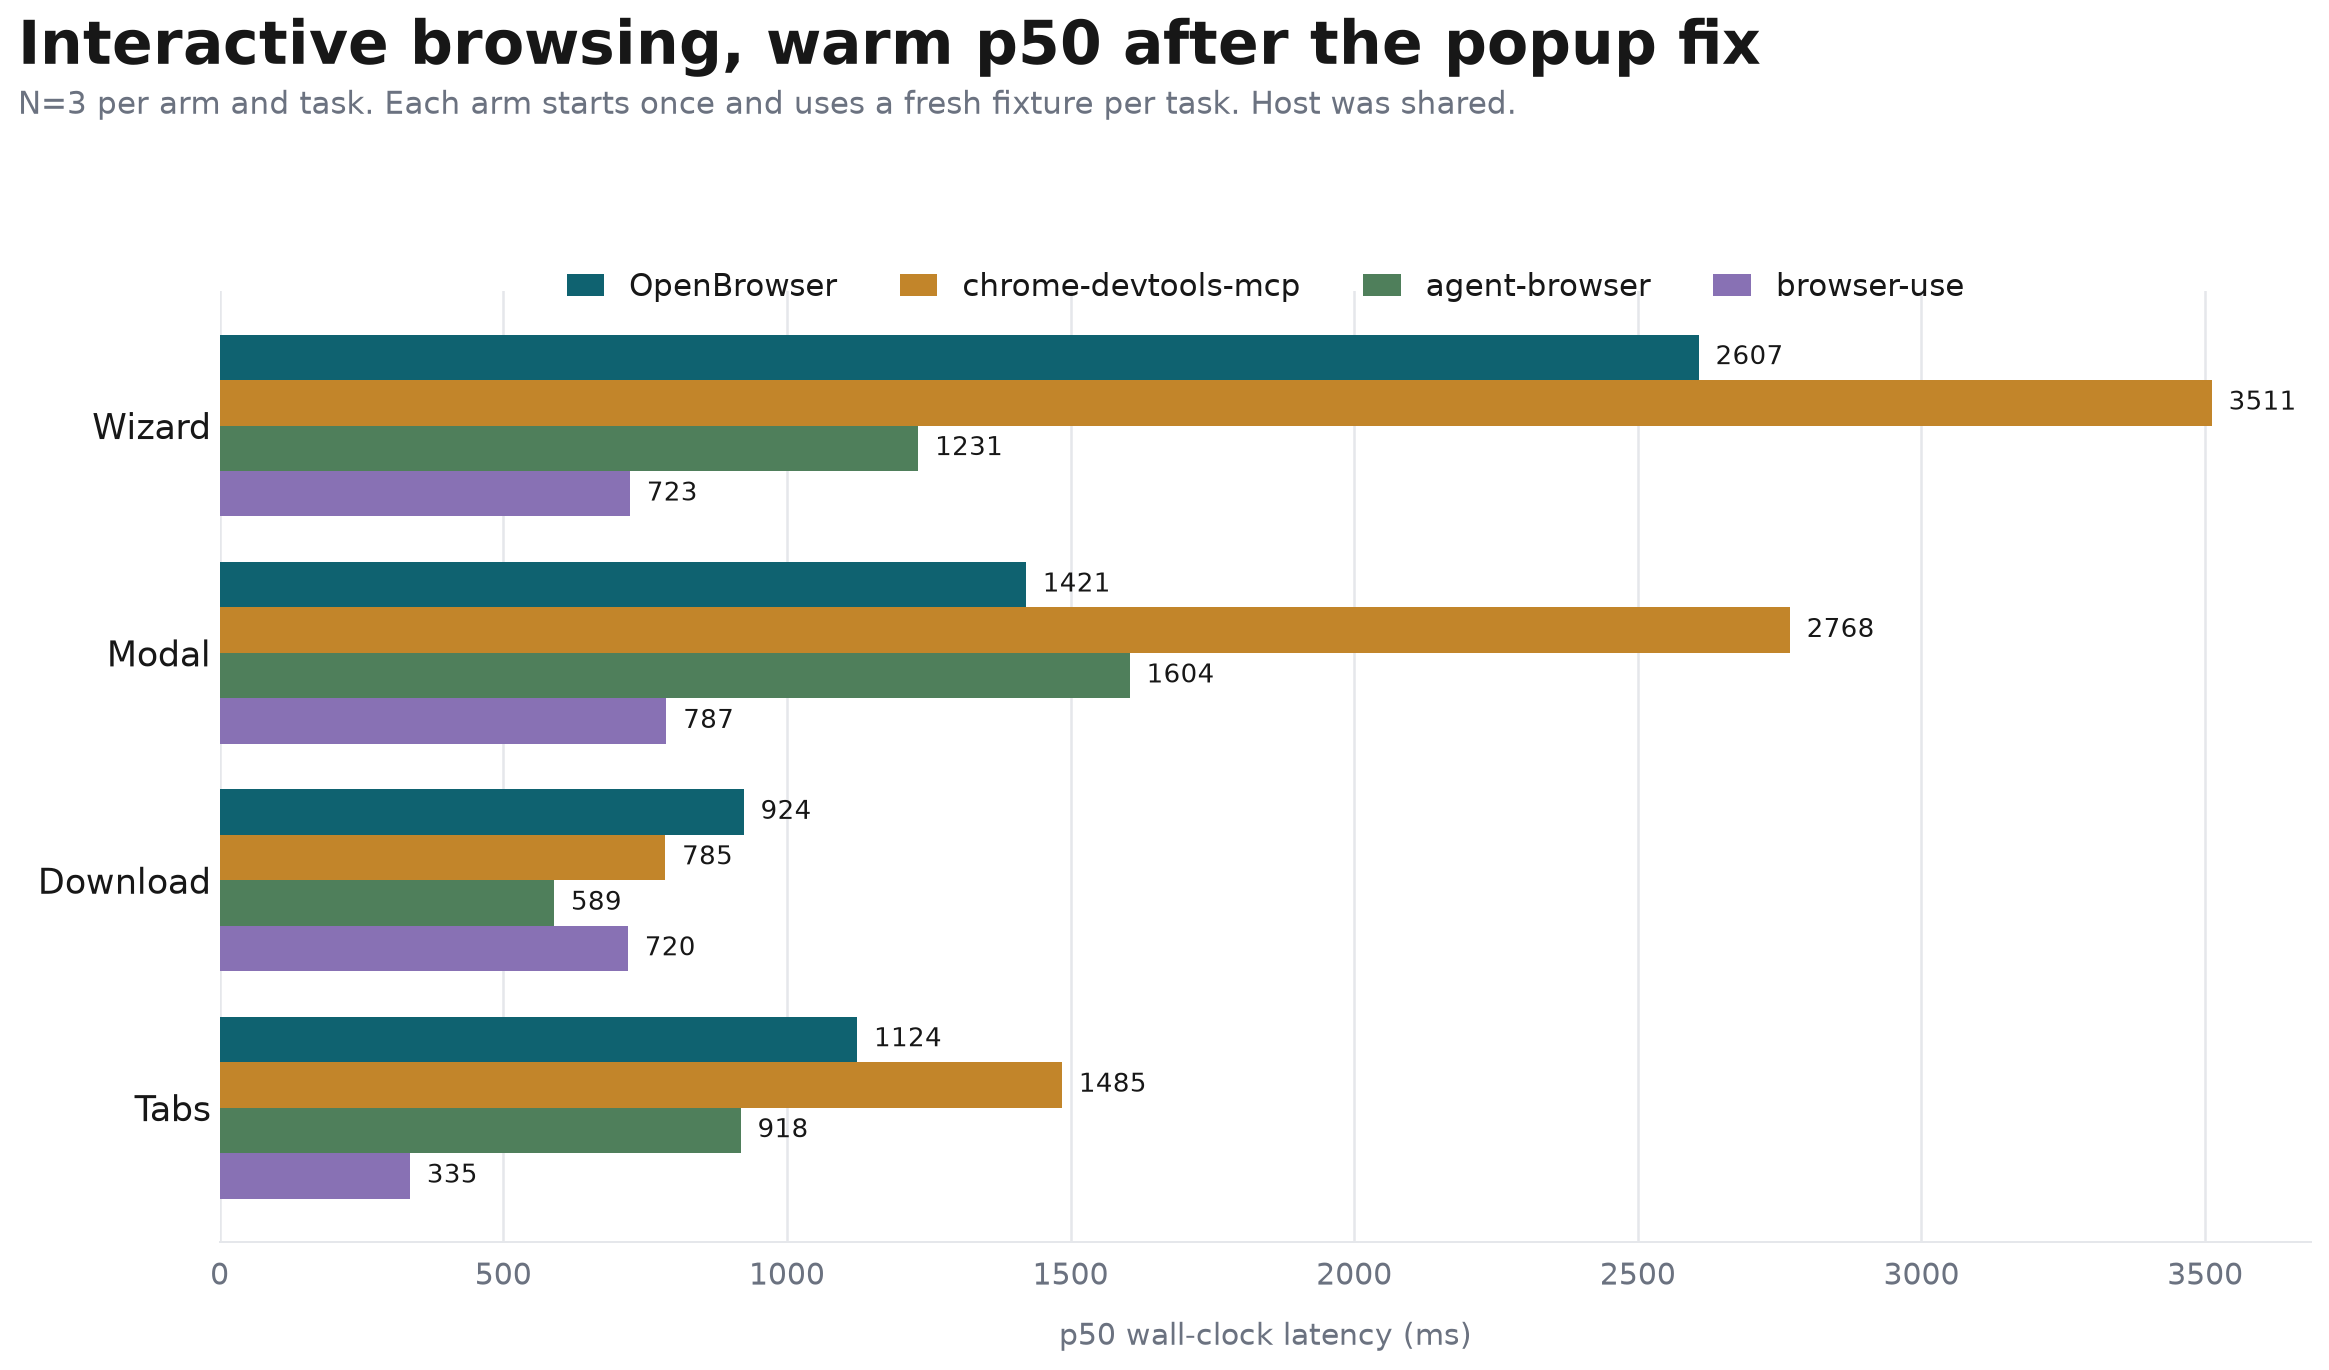
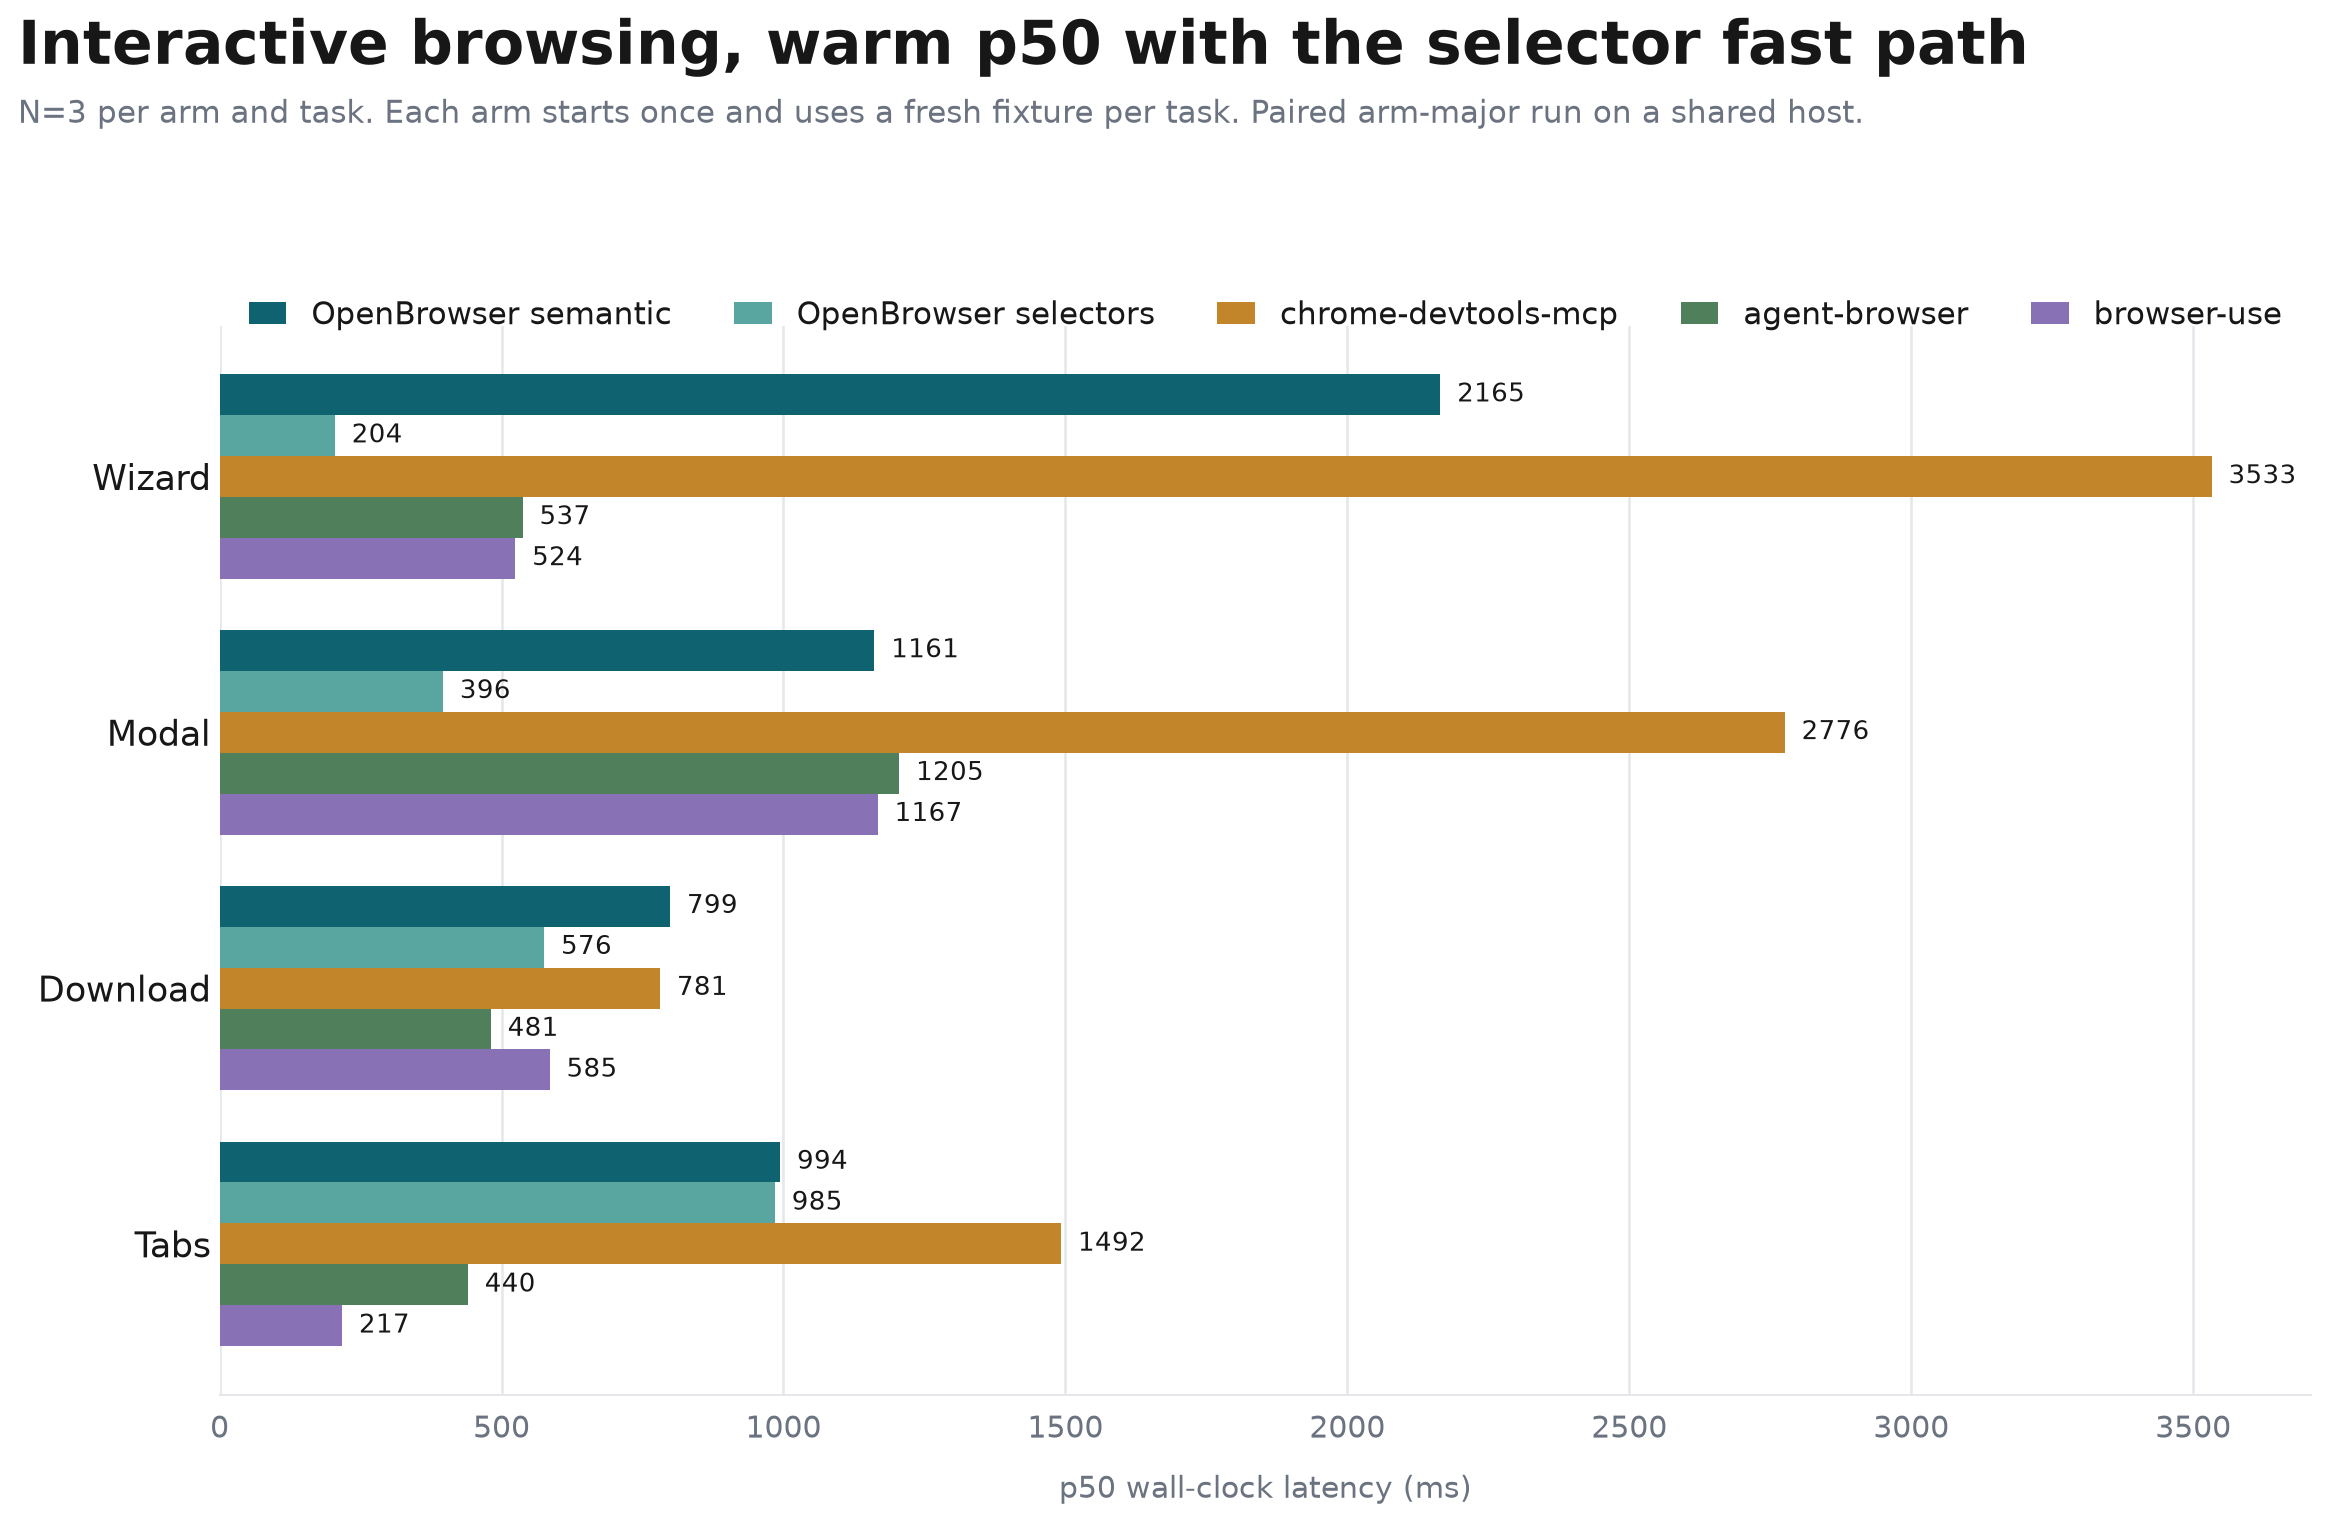
docs(bench): chart the fast selector wins

diff --git a/benchmarks/interactive/plot_results.py b/benchmarks/interactive/plot_results.py
@@ -16,11 +16,14 @@ matplotlib.use("Agg")
 import matplotlib.pyplot as plt
 
 HERE = Path(__file__).resolve().parent
-DEFAULT_INPUT = HERE / "results" / "results-warm-4arm-2026-11-24-after-popup-n3.summary.json"
+DEFAULT_INPUT = (
+    HERE / "results" / "results-warm-fast-selector-final-all-2026-11-24-n3.summary.json"
+)
 DEFAULT_OUTPUT = HERE.parents[1] / "docs" / "images" / "native-interactive-warm-current-p50.png"
 TASKS = ("wizard", "modal", "download", "tabs")
 ARMS = (
-    ("openbrowser", "OpenBrowser", "#0f6270"),
+    ("openbrowser", "OpenBrowser semantic", "#0f6270"),
+    ("openbrowser-fast", "OpenBrowser selectors", "#58a69f"),
     ("chrome-devtools-mcp", "chrome-devtools-mcp", "#c2852a"),
     ("agent-browser", "agent-browser", "#4f7f5b"),
     ("browser-use", "browser-use", "#8871b4"),
@@ -38,6 +41,13 @@ def main() -> int:
 
     report = json.loads(args.input.read_text(encoding="utf-8"))
     rows = {(row["task"], row["arm"]): row for row in report["rows"]}
+    arms = tuple(
+        arm
+        for arm in ARMS
+        if all((task, arm[0]) in rows for task in TASKS)
+    )
+    if not arms:
+        raise SystemExit("No complete arm is present in the summary")
     samples = report["environment"]["samples"]
 
     plt.rcParams.update(
@@ -51,14 +61,14 @@ def main() -> int:
             "ytick.color": TEXT,
         }
     )
-    fig, ax = plt.subplots(figsize=(14, 8), dpi=180)
+    fig, ax = plt.subplots(figsize=(14, 9), dpi=180)
     fig.patch.set_facecolor("#ffffff")
     ax.set_facecolor("#ffffff")
 
-    bar_height = 0.2
-    offsets = [index - (len(ARMS) - 1) / 2 for index in range(len(ARMS))]
+    bar_height = 0.16
+    offsets = [index - (len(arms) - 1) / 2 for index in range(len(arms))]
     positions = list(range(len(TASKS)))
-    for offset, (arm, label, color) in zip(offsets, ARMS, strict=True):
+    for offset, (arm, label, color) in zip(offsets, arms, strict=True):
         values = [rows[(task, arm)]["warm_p50_ms"] for task in TASKS]
         y = [position + offset * bar_height for position in positions]
         bars = ax.barh(y, values, height=bar_height, color=color, label=label, zorder=3)
@@ -85,7 +95,7 @@ def main() -> int:
     ax.tick_params(axis="x", length=0, pad=8)
 
     fig.suptitle(
-        "Interactive browsing, warm p50 after the popup fix",
+        "Interactive browsing, warm p50 with the selector fast path",
         x=0.06,
         y=0.99,
         ha="left",
@@ -97,7 +107,7 @@ def main() -> int:
     fig.text(
         0.06,
         0.94,
-        f"N={samples} per arm and task. Each arm starts once and uses a fresh fixture per task. Host was shared.",
+        f"N={samples} per arm and task. Each arm starts once and uses a fresh fixture per task. Paired arm-major run on a shared host.",
         ha="left",
         va="top",
         fontsize=12.5,
@@ -106,7 +116,7 @@ def main() -> int:
     ax.legend(
         loc="upper center",
         bbox_to_anchor=(0.5, 1.05),
-        ncol=len(ARMS),
+        ncol=len(arms),
         frameon=False,
         fontsize=12.5,
         handlelength=1.2,

diff --git a/plugin/README.md b/plugin/README.md
@@ -118,7 +118,7 @@ Prefer indexed actions whenever an element index exists. Coordinate actions use 
 
 Current local deterministic fixtures show OpenBrowser winning four of five scraping tasks against Firecrawl Local. It is 20.7x faster on the JavaScript list, 19.1x faster on the asset-heavy page, and 2.09x faster on structured table extraction. Firecrawl is 7 percent faster on pagination. Against Lightpanda, OpenBrowser no-render is faster on all five local tasks but uses more memory.
 
-The interactive warm lane remains split. The popup fix reduced OpenBrowser `tabs` from 6170 ms to 1124 ms. OpenBrowser beats chrome-devtools-mcp on warm `wizard`, `modal`, and `tabs`, while browser-use remains faster on all four warm tasks. See the [charted comparison](https://docs.openbrowser.me/comparison) and the raw artifacts under [`benchmarks/`](../benchmarks/).
+The CSS selector helpers make the warm interactive lane competitive. The selector arm wins all four tasks against chrome-devtools-mcp, three against browser-use, and two against agent-browser. Browser-use still wins tabs, and agent-browser still wins download and tabs. See the [charted comparison](https://docs.openbrowser.me/comparison) and the raw artifacts under [`benchmarks/`](../benchmarks/).
 
 ### CLI Benchmark: 4-Way Comparison (6 Tasks, N=3 runs)
 

diff --git a/README.md b/README.md
@@ -615,7 +615,7 @@ Local deterministic fixtures, no LLM, and interleaved N=10 samples with 2 warmup
 
 OpenBrowser wins four of five local scraping tasks and returns structured rows for table and list extraction. Against Lightpanda, OpenBrowser no-render is faster on all five local tasks. It uses more memory: about 740 to 783 MB for browser arms against about 123 MB for Lightpanda.
 
-The interactive warm lane remains split. The popup fix reduced OpenBrowser `tabs` from 6170 ms to 1124 ms, and OpenBrowser now beats chrome-devtools-mcp on warm `wizard`, `modal`, and `tabs`. Browser-use remains faster on all four warm tasks. These local-fixture results are not a live-site ranking. See [the charted comparison](https://docs.openbrowser.me/comparison).
+The CSS selector helpers make the warm interactive lane competitive. The selector arm wins all four tasks against chrome-devtools-mcp, three against browser-use, and two against agent-browser. Browser-use still wins tabs, and agent-browser still wins download and tabs. These local-fixture results are not a live-site ranking. See [the charted comparison](https://docs.openbrowser.me/comparison).
 
 ### CLI Benchmark: 4-Way Comparison (6 Tasks, N=3 runs)
 
